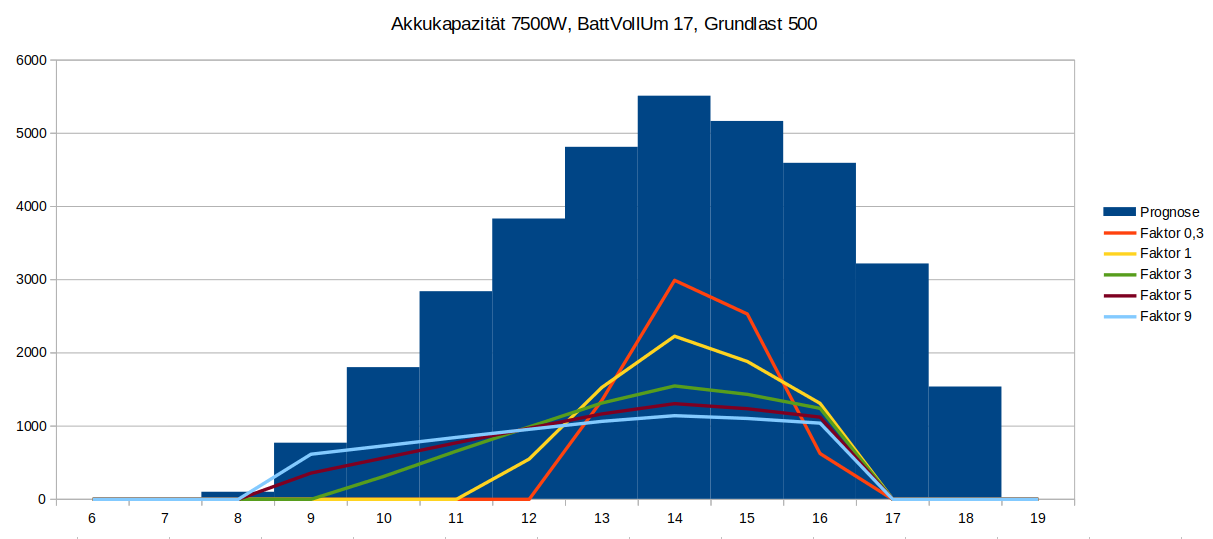
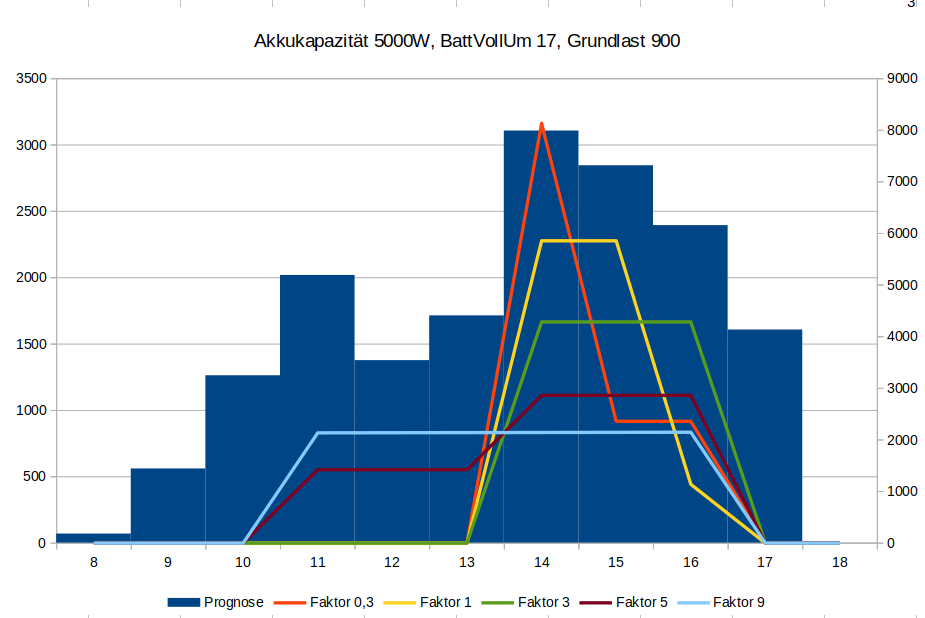
auch WRSchreibGrenze_nachOben in Prognoseberechnung eingebaut.

diff --git a/SymoGen24Controller2.py b/SymoGen24Controller2.py
@@ -100,12 +100,16 @@ def getRestTagesPrognoseUeberschuss( AbzugWatt, aktuelleEinspeisung, aktuellePVP
 
             #SPO ENT
             Pro_Uebersch_org = int(Pro_Uebersch)
-            # Wenn Prognose niedrieger und nicht unter WRSchreibGrenze_nachUnten alte Prognose belassen
+            # Wenn Prognose höher und nicht über WRSchreibGrenze_nachOben alte Prognose belassen
+            if (Pro_Uebersch > Pro_Uebersch_vorher) and (Pro_Uebersch < Pro_Uebersch_vorher + WRSchreibGrenze_nachOben):
+                Pro_Uebersch = Pro_Uebersch_vorher
+            # Wenn Prognose niedriger und nicht unter WRSchreibGrenze_nachUnten alte Prognose belassen
             if (Pro_Uebersch < Pro_Uebersch_vorher) and (Pro_Uebersch > Pro_Uebersch_vorher - WRSchreibGrenze_nachUnten):
                 Pro_Uebersch = Pro_Uebersch_vorher
                 # Wenn nicht mehr genügend überschuss vorhanden ist
                 if Pro_Uebersch > (Prognose - Grundlast):
                     Pro_Uebersch = (Prognose - Grundlast)
+
             Pro_Uebersch_vorher = Pro_Uebersch
             DEBUG_Ausgabe_Schleife += "## Std., Prognose, Pro_Uebersch_org, Pro_Uebersch " + str(i) + " " + str(int(Prognose)) + " " + str(int(Pro_Uebersch_org)) + " " + str(int(Pro_Uebersch)) +"\n"
             #SPO ENT
